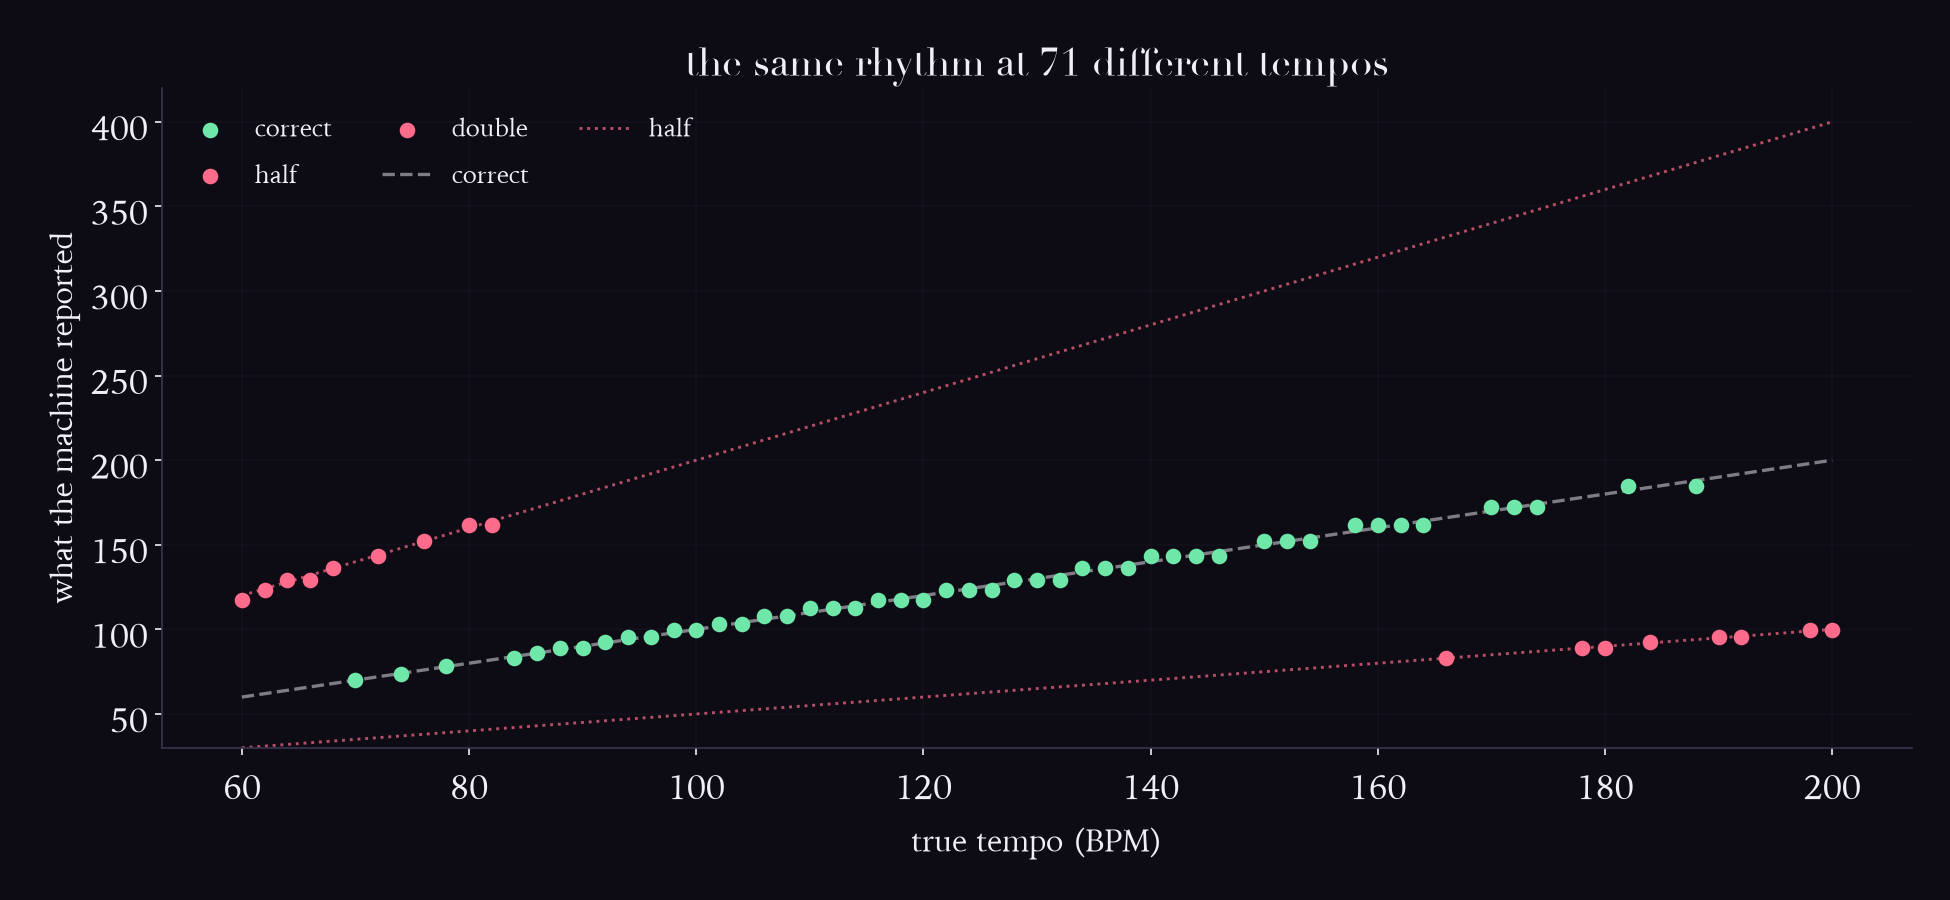
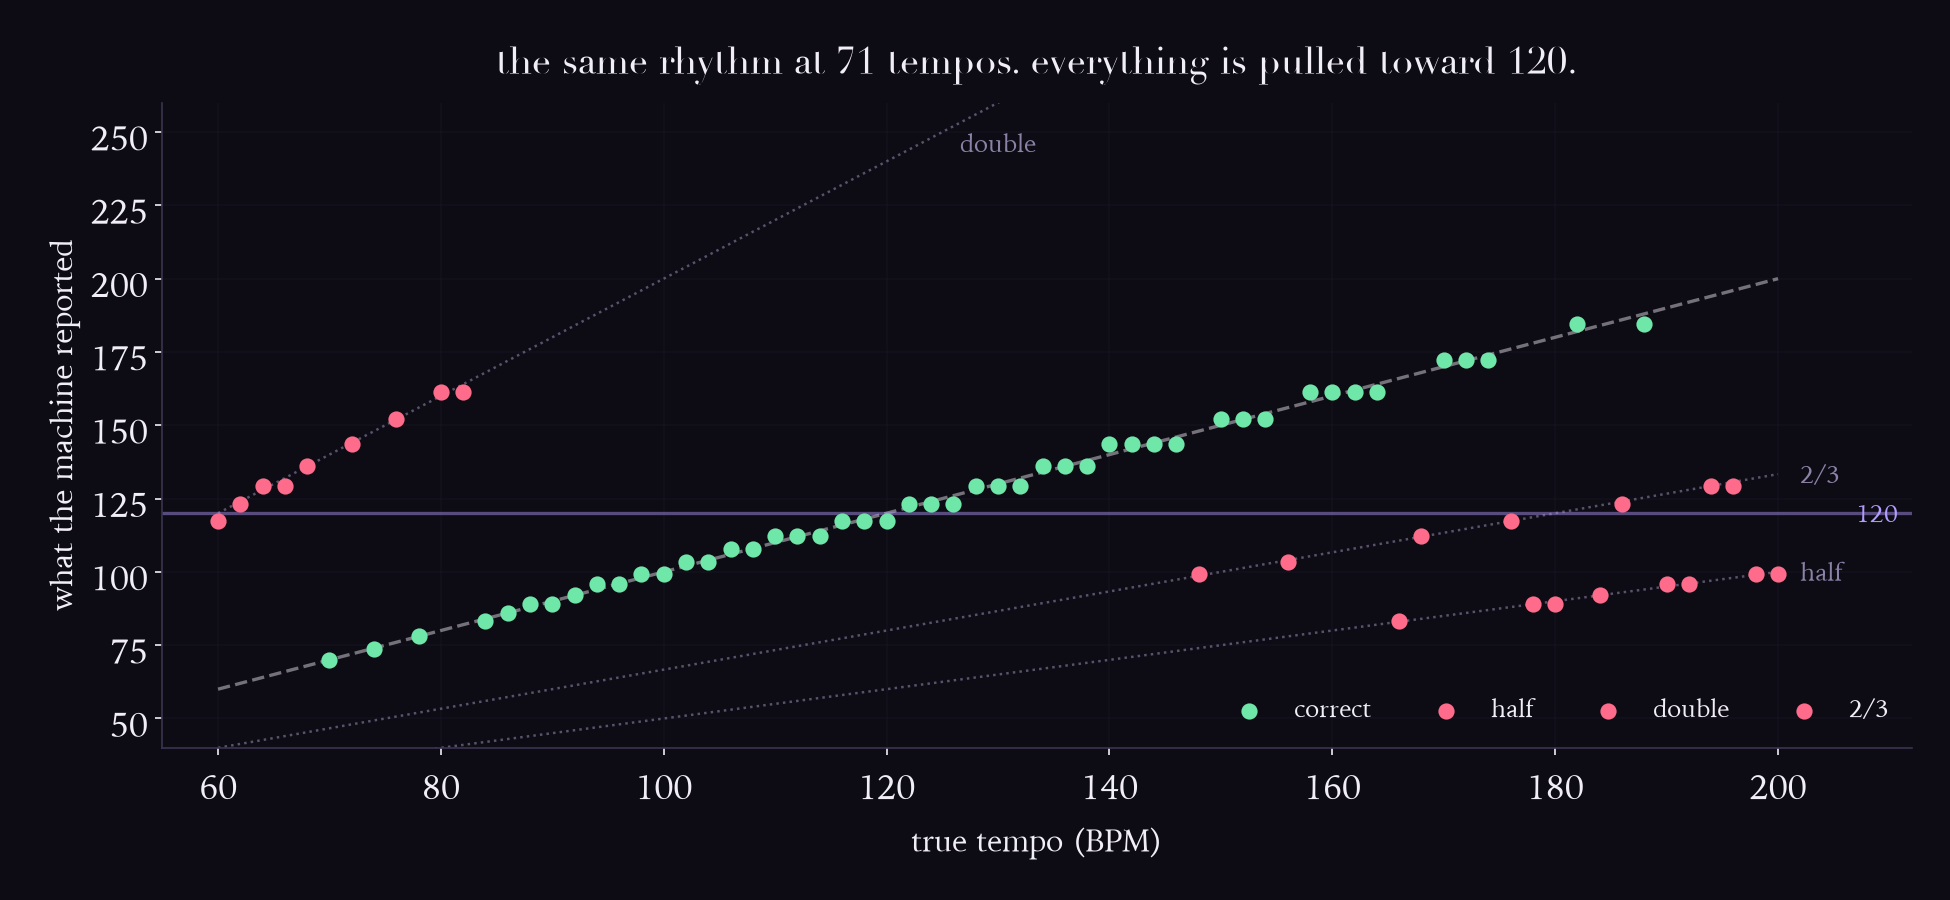
Day 7: plot every verdict and keep the guide labels on canvas

diff --git a/labs/day-07-rhythm/tempo_sweep.py b/labs/day-07-rhythm/tempo_sweep.py
@@ -130,22 +130,43 @@ def main():
 
     # ---- the picture ----
     fig, ax = plt.subplots(figsize=(13, 6))
-    colours = {"correct": GOOD, "half": BAD, "double": BAD,
-               "third": "#ffb86b", "triple": "#ffb86b", "other": DIM}
-    for name in colours:
+
+    # guide lines first, so the measurements sit on top
+    YLIM = (40, 260)
+    ax.plot(tempos, tempos, lw=1.6, ls="--", color=FG, alpha=0.45)
+    for factor, lab in ((0.5, "half"), (2.0, "double"), (2 / 3, "2/3")):
+        ax.plot(tempos, tempos * factor, lw=1.2, ls=":", color=DIM, alpha=0.6)
+        # label the line where it actually leaves the plot, not off-canvas
+        y_end = tempos[-1] * factor
+        if YLIM[0] < y_end < YLIM[1]:
+            ax.text(tempos[-1] + 2, y_end, lab, **text(12), color=DIM, va="center")
+        else:
+            x_at_top = YLIM[1] / factor
+            if tempos[0] < x_at_top < tempos[-1]:
+                ax.text(x_at_top, YLIM[1] - 8, lab, **text(12), color=DIM,
+                        ha="center", va="top")
+    ax.axhline(120, color=ACCENT, lw=1.6, alpha=0.45)
+    ax.text(207, 120, "120", **text(12), color=ACCENT, va="center")
+
+    # one colour per verdict, derived from LEVELS so nothing can go unplotted
+    palette = {"correct": GOOD}
+    for name, _ in LEVELS[1:]:
+        palette[name] = BAD
+    palette["not a metrical level"] = DIM
+
+    for name in palette:
         pts = [(t, e) for t, e, c in rows if c == name]
         if pts:
-            ax.scatter(*zip(*pts), s=42, color=colours[name], label=name, zorder=3)
+            ax.scatter(*zip(*pts), s=46, color=palette[name], label=name, zorder=3)
 
-    ax.plot(tempos, tempos, lw=1.6, ls="--", color=FG, alpha=0.5, label="correct")
-    ax.plot(tempos, tempos / 2, lw=1.4, ls=":", color=BAD, alpha=0.7, label="half")
-    ax.plot(tempos, tempos * 2, lw=1.4, ls=":", color=BAD, alpha=0.7)
     ax.set_xlabel("true tempo (BPM)", **text(15), color=FG)
     ax.set_ylabel("what the machine reported", **text(15), color=FG)
-    ax.set_ylim(30, 420)
-    ax.legend(fontsize=12, ncol=3)
+    ax.set_xlim(55, 212)
+    ax.set_ylim(*YLIM)
+    ax.legend(fontsize=12, ncol=4, loc="lower right")
     ax.grid(alpha=0.12)
-    ax.set_title("the same rhythm at 71 different tempos", **display(19), color=FG)
+    ax.set_title("the same rhythm at 71 tempos. everything is pulled toward 120.",
+                 **display(18), color=FG, pad=14)
     fig.tight_layout()
     fig.savefig(OUT / "tempo_sweep.png", dpi=150, facecolor=BG)
     print(f"\nwrote {OUT / 'tempo_sweep.png'}")
